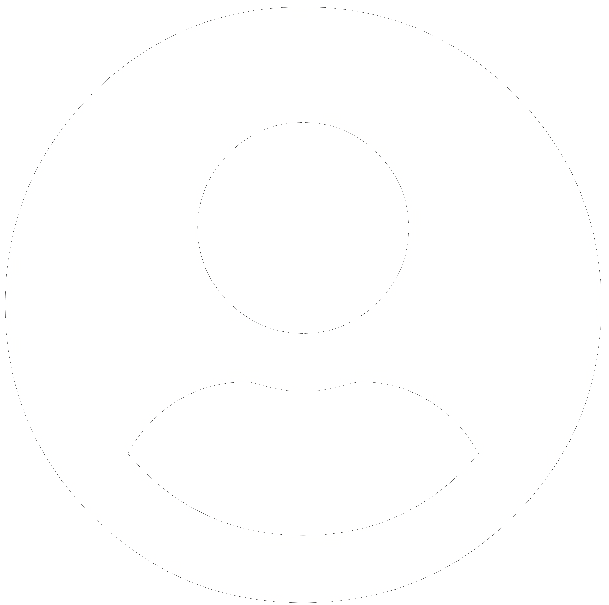
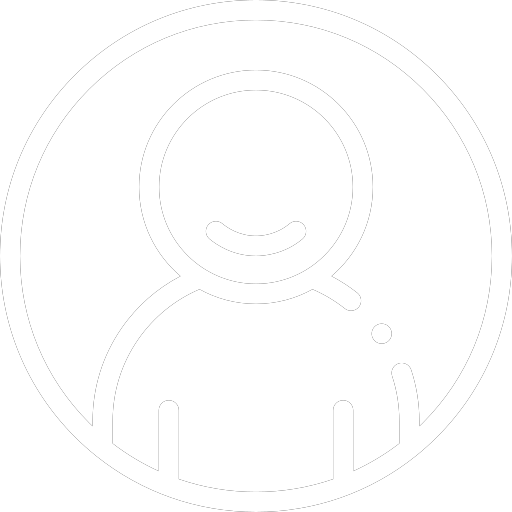
Cambios de iconos

Changed region(s): [[0.75, 0.9062, 0.7812, 0.9375]]

diff --git a/navigation/MainStack.js b/navigation/MainStack.js
@@ -19,7 +19,7 @@ const Tab = createBottomTabNavigator()
 export default function MyTabs(){
     const home = require('../assets/images/recetaw.png');
     const profile = require('../assets/images/perfil.png');
-    const bookmarks = require('../assets/images/bookmark.png');
+    const bookmarks = require('../assets/images/bookmarks.png');
     const newrecipe = require('../assets/images/newrecipe.png');
     const alacena = require('../assets/images/ingredW.png');
     
@@ -59,6 +59,7 @@ export default function MyTabs(){
                         style = {{
                             width: 40,
                             height:40,
+                            marginTop:4,
                         }}/>
                     )
                 }}/>

diff --git a/components/NavBar/index.js b/components/NavBar/index.js
@@ -7,7 +7,7 @@ import NavButton from '../NavButtons';
 const NavBar = (props) => {
     const home = require('../../assets/images/recetaw.png');
     const profile = require('../../assets/images/perfil.png');
-    const bookmarks = require('../../assets/images/bookmark.png');
+    const bookmarks = require('../../assets/images/bookmarks.png');
     const newrecipe = require('../../assets/images/newrecipe.png');
     const alacena = require('../../assets/images/ingredW.png');
 

diff --git a/components/NavHome/homeStack.js b/components/NavHome/homeStack.js
@@ -12,7 +12,7 @@ import MiHomeFuture from '../../views/homeFuture';
 const Tab = createMaterialTopTabNavigator()
 
 export default function NavHome(){
-    const Existentes = require('../../assets/images/casita.png');
+    const Existentes = require('../../assets/imagenes/recetaw.');
     const Agregar = require('../../assets/images/cart.png');
     
     return(
